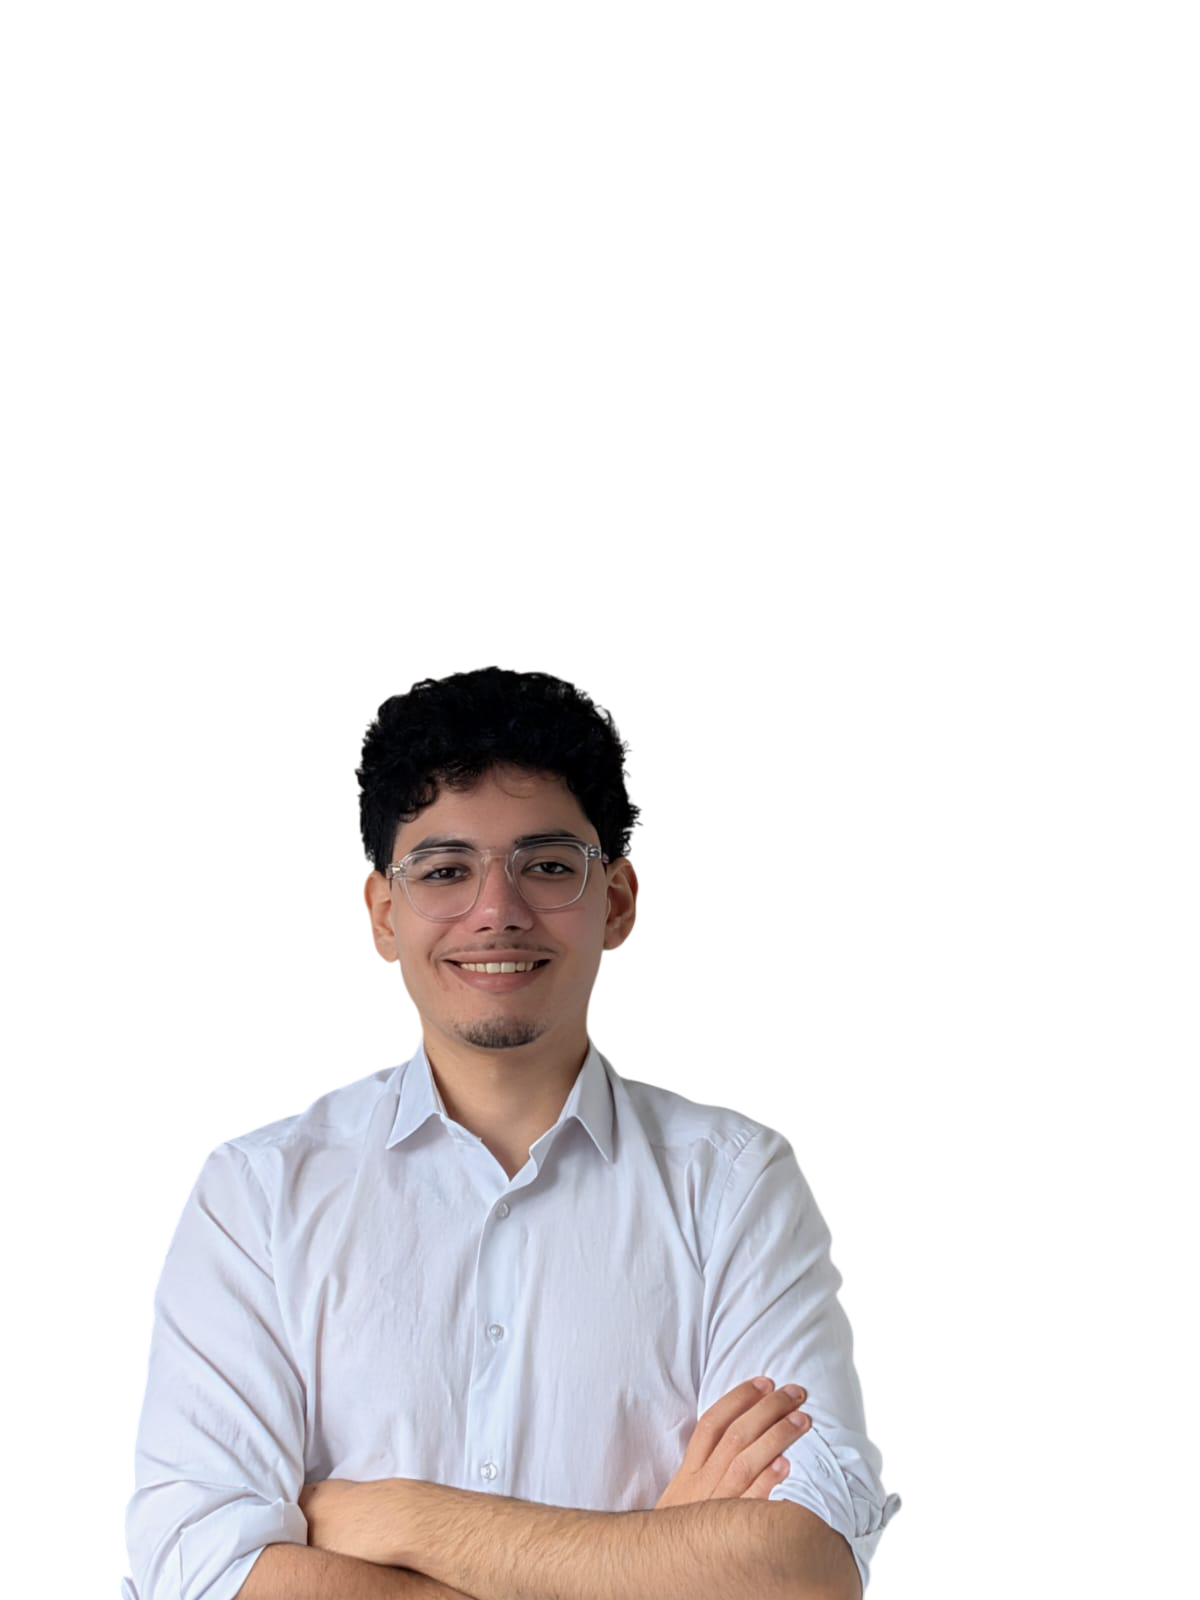
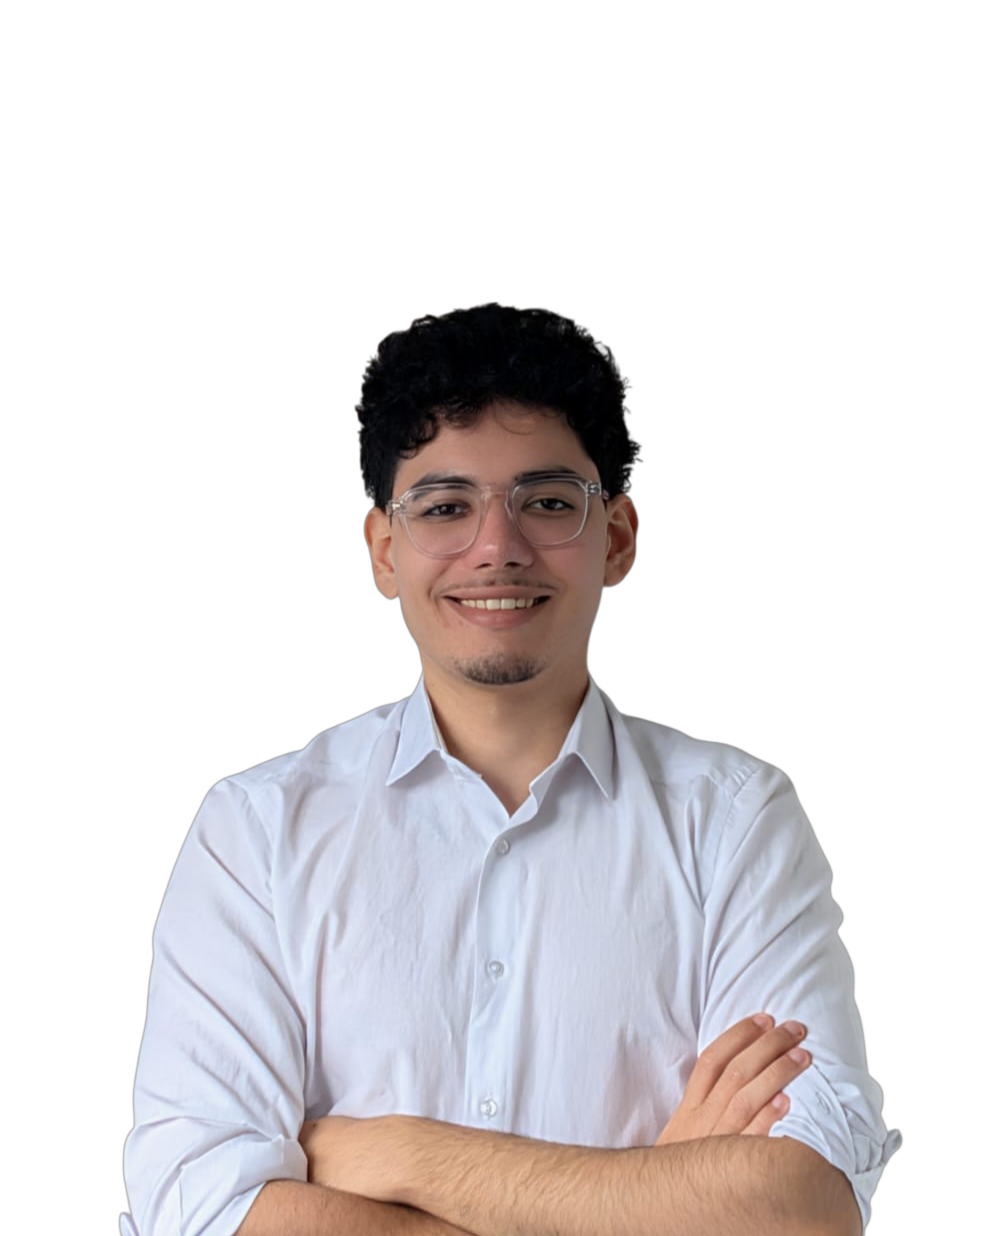
Update photo badges (copy-to-clipboard) and mobile layout

Changed region(s): [[0.0936, 0.246, 0.9044, 1.0]]

diff --git a/index.html b/index.html
@@ -175,8 +175,8 @@
       text-align: center;
       position: absolute;
       right: -4rem;
-      top: -11rem;
-      width: 620px;
+      top: -5rem;
+      width: 550px;
     }
 
     .hero-photo-img {
@@ -202,18 +202,49 @@
       transform: translateX(35px);
     }
 
+    button.hero-photo-badge {
+      font-family: inherit;
+      cursor: pointer;
+      border: none;
+    }
+
+    .hero-photo-badge.is-copied {
+      background: #2ecc71 !important;
+      color: #fff !important;
+      border-color: #2ecc71 !important;
+    }
+
     .hero-photo-badge {
       display: inline-block;
       margin-top: 0.8rem;
       transform: translateX(35px);
       background: var(--accent);
       color: var(--bg);
-      font-size: 0.58rem;
+      font-size: 0.78rem;
       font-weight: 500;
-      letter-spacing: 0.12em;
+      letter-spacing: 0.08em;
       text-transform: uppercase;
-      padding: 0.5rem 1.3rem;
+      padding: 0.75rem 1.8rem;
       border-radius: 99px;
+      transition: all 0.3s;
+    }
+
+    .hero-photo-badge:hover {
+      background: var(--text);
+    }
+
+    .hero-photo-badge-email {
+      margin-left: 0.5rem;
+      background: transparent;
+      border: 1px solid var(--accent);
+      color: var(--accent);
+      text-transform: none;
+      letter-spacing: 0.02em;
+    }
+
+    .hero-photo-badge-email:hover {
+      background: var(--accent);
+      color: var(--bg);
     }
 
     /* ── ENTRANCE ANIMATIONS ── */
@@ -349,7 +380,7 @@
       .btn-main, .btn-outline { justify-content: center; padding: 0.75rem 1.5rem; }
       .hero-contact { flex-direction: column; gap: 0.6rem; margin-top: 1.8rem; padding-top: 1.5rem; }
       .hero-photo { width: 260px; max-width: 85%; }
-      .hero-photo-badge { font-size: 0.52rem; padding: 0.4rem 1rem; }
+      .hero-photo-badge { font-size: 0.7rem; padding: 0.6rem 1.4rem; }
     }
   </style>
 </head>
@@ -373,14 +404,11 @@
           Me contacter
         </a>
       </div>
-      <div class="hero-contact">
-        <a href="mailto:mehdimobtahij@outlook.com">mehdimobtahij@outlook.com</a>
-        <a href="tel:0766187021">07 66 18 70 21</a>
-      </div>
     </div>
     <div class="hero-photo">
       <img src="photo.png" alt="Mehdi Mobtahij" class="hero-photo-img"/>
-      <span class="hero-photo-badge">Mobile toute France</span>
+      <button type="button" class="hero-photo-badge" data-copy="0766187021">07 66 18 70 21</button>
+      <button type="button" class="hero-photo-badge hero-photo-badge-email" data-copy="mehdimobtahij@outlook.com">mehdimobtahij@outlook.com</button>
     </div>
   </div>
 </section>
@@ -389,5 +417,18 @@
   <span>&copy; 2026 Mehdi Mobtahij</span>
 </footer>
 
+<script>
+  document.querySelectorAll('.hero-photo-badge[data-copy]').forEach(btn => {
+    btn.addEventListener('click', async () => {
+      const value = btn.dataset.copy;
+      try { await navigator.clipboard.writeText(value); }
+      catch { const t = document.createElement('textarea'); t.value = value; document.body.appendChild(t); t.select(); document.execCommand('copy'); t.remove(); }
+      const original = btn.textContent;
+      btn.textContent = 'Copié !';
+      btn.classList.add('is-copied');
+      setTimeout(() => { btn.textContent = original; btn.classList.remove('is-copied'); }, 1400);
+    });
+  });
+</script>
 </body>
 </html>
